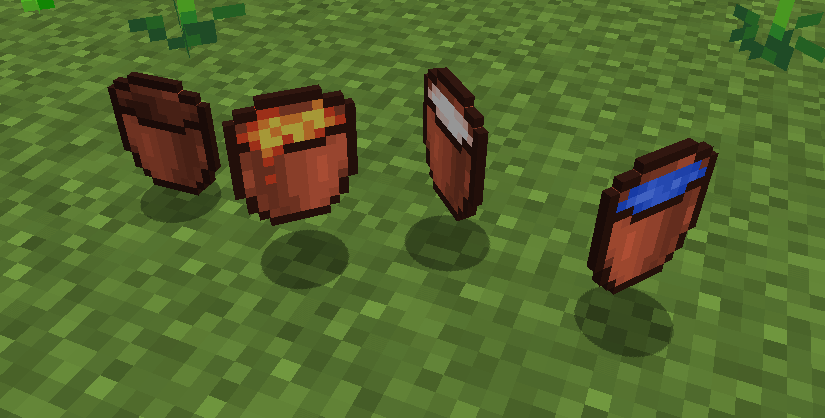
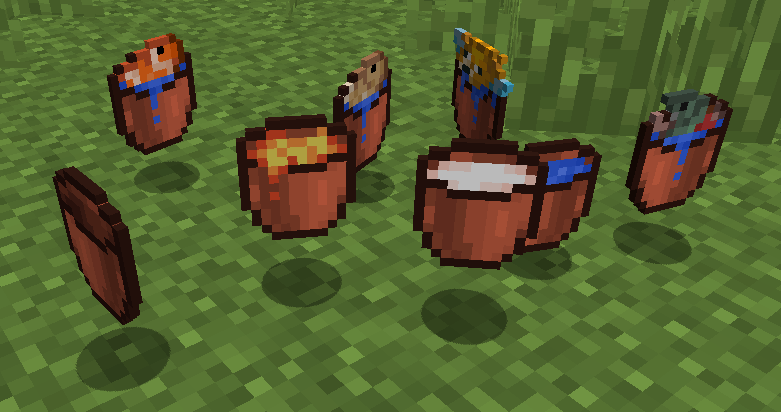
description change for fish buckets

diff --git a/README.md b/README.md
@@ -11,7 +11,7 @@ Adds 2 items to the game:
 
 ![Crafting](https://raw.githubusercontent.com/cech12/CeramicBucket/master/material/crafting.png)
 
-The **Ceramic Bucket** acts like a normal bucket and can contain **water**, **lava** and **milk**.
+The **Ceramic Bucket** acts like a normal bucket and can contain **water**, **lava**, **milk** and **fishes**.
 The only difference is if the bucket contains lava, it melts as soon as you empty it.
 
 For more information check out the **Wiki**: https://github.com/cech12/CeramicBucket/wiki
